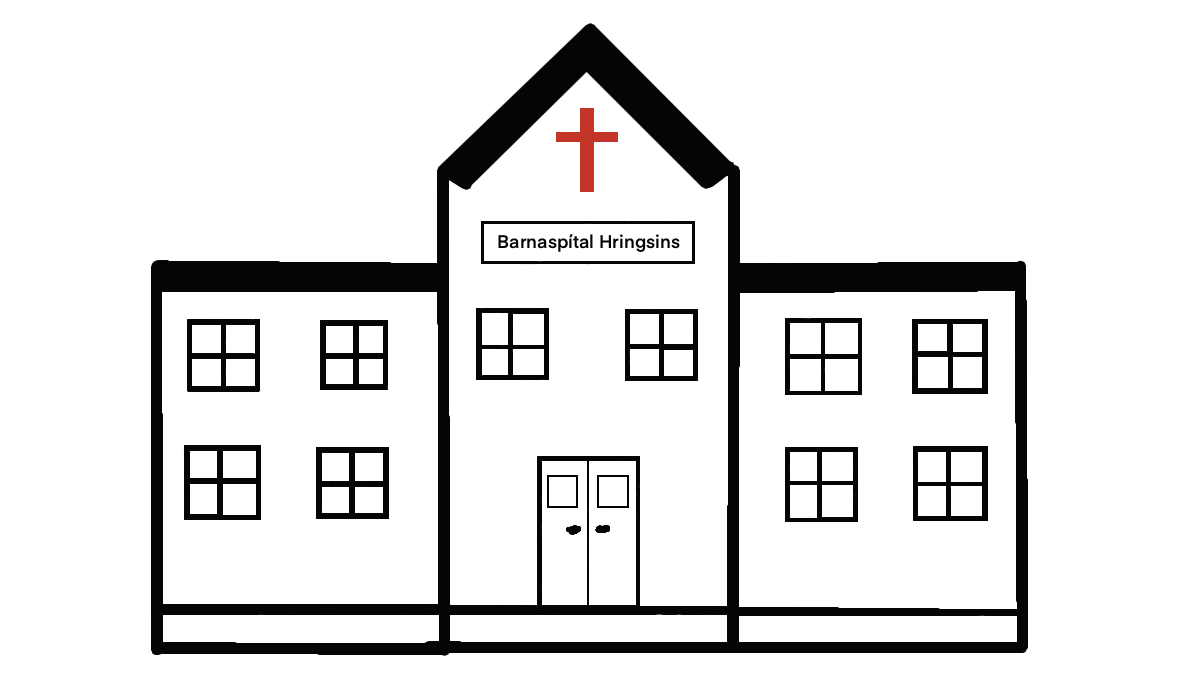
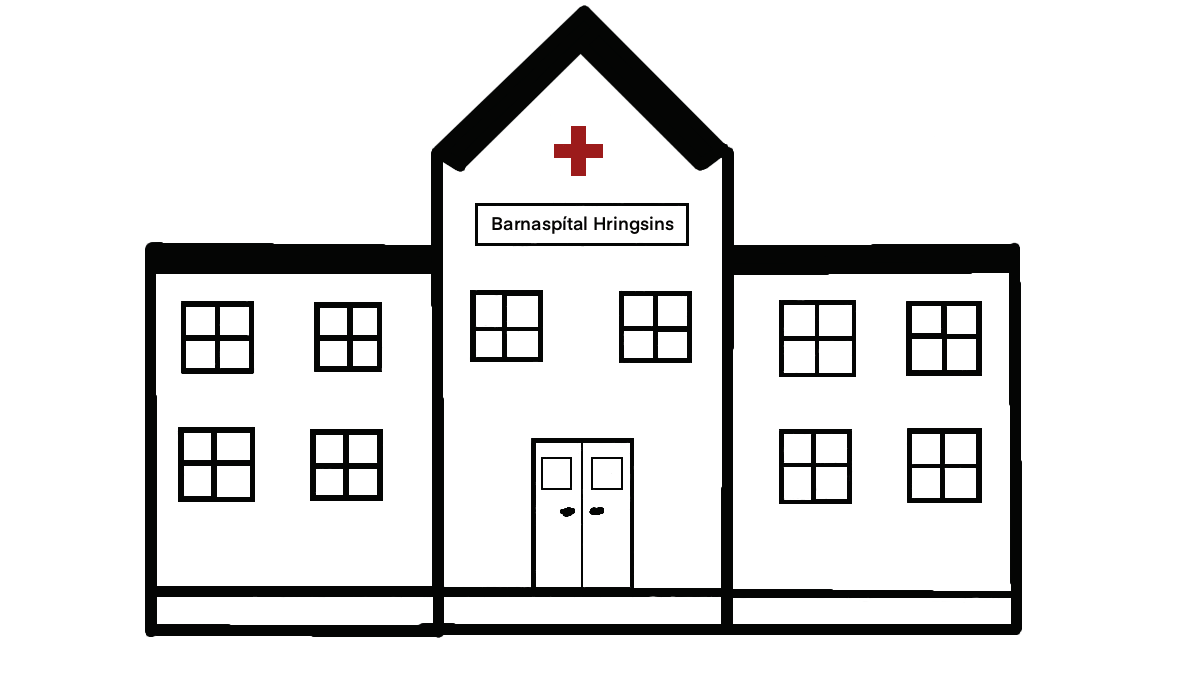
doneski

Changed region(s): [[0.1233, 0.0, 0.8633, 0.96]]

diff --git a/Leikur/index.js b/Leikur/index.js
@@ -1,9 +1,3 @@
-// Setja inn JB og baeta vid haus hreyfing
-// Uppfaera og setja inn myndir
-// baeta vid fleiri leikir
-// laga level 9-10
-
-
 var script = document.createElement('script');
 script.src = "https://code.jquery.com/jquery-3.7.1.js";
 document.getElementsByTagName("head")[0].appendChild(script);
@@ -75,6 +69,10 @@ bindu_sig_viljandiMynd.src = 'Img/folk/bindu_sig_viljandi.png'
 document.getElementById("pullLever").addEventListener('click', takki1);
 document.getElementById("noPullLever").addEventListener('click',takki2);
 document.getElementById("næstaBorð").addEventListener("click", switchToNextLevel);
+document.getElementById("takkar");
+document.getElementById("refresh");
+document.getElementById("byrja_uppa_nytt");
+
 
 class element{
     constructor (options){
@@ -120,25 +118,6 @@ const lest = new element({
     height: 175,
     image: lestMynd 
 })
-
-// const jbHaus = {
-//     x: 100,
-//     y: 400,
-//     width: 300,
-//     height: 200,
-//     runningFrames: [],
-//     frameIndex:0,
-//     frameDelay:6,
-//     frameCounter:0
-// };
-// function preLoadImages(){
-//     for(let i = 1; i<=5; i++){
-//         const img = new Image();
-//         img.src = `Img/JB/Johann${i}.png`;
-//         jbHaus.runningFrames.push(img);
-//     }
-// }
-// preLoadImages();
 
 const einManneskja = new element({
     x: 850,
@@ -257,7 +236,7 @@ const slaemur_borgari = new element({
     y: 80,
     width: 300,
     height: 175,
-    numPeople: 1,
+    numPeople: 2,
     image: slaemur_borgariMynd
 })
 const godur_borgari = new element({
@@ -308,7 +287,7 @@ const Level2 = new LevelBoard({
     boardLevel: 2,
     Val1: bekkurX,
     Val2: bekkurZY,
-    boardUpp:"Ó nei, lestin stefnir í átt að tveim bekkjum, X-bekk og ZY-bekk. Þú getur bjargað ZY-bekknum á kostnað X-bekksins. Hvað mun Jóhann gera?"
+    boardUpp:"Ó nei, lestin stefnir í átt að tveimur bekkjum, X-bekk og ZY-bekk. Þú getur bjargað ZY-bekknum á kostnað X-bekksins. Hvað mun Jóhann gera?"
 })
 const Level3 = new LevelBoard({
     boardLevel: 3,
@@ -338,7 +317,7 @@ const Level7 = new LevelBoard({
     boardLevel: 7,
     Val1: trir_unglingar,
     Val2: sjo_gamalt_folk,
-    boardUpp: 'Ó nei, lestin stefnir í átt að sjö gamalmennum sem struku af Hrafnistu. Væri best að refsa þeim, eða þrem unglingum sem hata alla heimspekikennara?'
+    boardUpp: 'Ó nei, lestin stefnir í átt að sjö gamalmennum sem struku af Hrafnistu. Væri best að refsa þeim, eða þremur unglingum sem hata alla heimspekikennara?'
 })
 const Level8 = new LevelBoard({
     boardLevel: 8,
@@ -393,9 +372,11 @@ function hreyfaLest(){
 setInterval(hreyfaLest, 1);
 
 function drawLevel(Level){
-    ctx.font = "24px Monospace";
-    ctx.fillText(`Level : ${Level}`, c.width/2-40, 50);
+    ctx.font = "bold 24px Monospace";
+    ctx.fillStyle = "grey"
+    ctx.fillText(`Borð : ${Level}`, c.width/2-40, 50);
 }
+
 function keyraYfir(Level){
     tempVal1 = Level.boardVal1;
     tempVal2 = Level.boardVal2;
@@ -457,10 +438,15 @@ function leikLokid(){
         ctx.clearRect(0,0,c.width,c.height)
         ctx.font = "60px Courier New";
         ctx.fillStyle = "#000000";
-        ctx.fillText("LEIK LOKIÐ", c.width / 2-100, c.height/2);
+        ctx.fillText("LEIK LOKIÐ", c.width / 2-190, c.height/2);
 
         ctx.font = "38px Courier New";
-        ctx.fillText(`Þú drapst ${score} einstaklinga!`, c.width/2-300,c.height/2+150);
+        ctx.fillText(`Þú hefur ollið ${score} dauðsföllum!`, c.width/2-300,c.height/2+150);
+
+        $("#takkar").hide();
+        $("#refresh").show();
+        $("#byrja_uppa_nytt").show();
+
     }
 }
 

diff --git a/Leikur/Leikur.html b/Leikur/Leikur.html
@@ -4,7 +4,7 @@
     <meta charset="UTF-8">
     <meta name="viewport" content="width=device-width, initial-scale=1.0">
     <title>Lestarvandamálið</title>
-    <link rel="stylesheet" href="index.css">
+    <link rel="stylesheet" href="./index.css">
     <script src="https://code.jquery.com/jquery-3.7.1.js" 
     integrity="sha256-eKhayi8LEQwp4NKxN+CfCh+3qOVUtJn3QNZ0TciWLP4=" 
     crossorigin="anonymous">
@@ -16,6 +16,10 @@
         <div id="canvasBox">
             <canvas id="leikbord" width="1200" height="700"></canvas>
             <img class="jbHaus" src="./Img/JB/Johann3.png">
+            <div id="container_refresh">
+                <label id="byrja_uppa_nytt">Byrja upp á nýtt</label>
+                <button id="refresh" onclick="window.location.reload();"><img src="./Img/annad/refresh1.png" width="50px" height="50px"></button>
+            </div>
         </div>
         
         <div id="atburdarTextiBox">
@@ -31,12 +35,15 @@
     </div>
     
 
-    <script src="index.js"></script>
+    <script src="./index.js"></script>
     <script>
+        $("#refresh").hide();
+        $("#byrja_uppa_nytt").hide();
         $("#næstaBorð").hide();
         $("#pullLever").click(function(){
             $("#pullLever").hide();
             $("#noPullLever").hide();
+            $("#næstaBorð").stop();
             $("#næstaBorð").show().css({"position": "relative","opacity": 0, "left": "+=100"});
             $("#næstaBorð").animate({left:0, opacity:1}, 4000);
 
@@ -44,6 +51,7 @@
         $("#noPullLever").click(function(){
             $("#pullLever").hide();
             $("#noPullLever").hide();
+            $("#næstaBorð").stop();
             $("#næstaBorð").show().css({"position": "relative","opacity": 0, "left": "+=100"});
             $("#næstaBorð").animate({left:0, opacity:1}, 4000);
             

diff --git a/Leikur/index.css b/Leikur/index.css
@@ -13,6 +13,10 @@ p {
     font-weight: bold;
     font-family: 'Courier New', Courier, monospace;
 }
+button:hover{
+    cursor: pointer;
+}
+
 #container{
     position: relative;
     width: 1400px;
@@ -50,6 +54,28 @@ p {
     height: 80%;
     /* border: 2px solid black; */
 }
+#canvasBox div #refresh{
+    position: absolute;
+    border-radius: 5px;
+    background: none;
+    top: 85%;
+    left: 55%;
+}
+#canvasBox div #byrja_uppa_nytt {
+    position: absolute;
+    top: 87%;
+    left: 38%;
+    font-size: 24px;
+    font-family: 'Courier New', Courier, monospace;
+    font-weight: bold;
+}
+
+#canvasBox #container_refresh img:hover {
+    filter: invert(100%);
+}
+#canvasBox #container_refresh button:hover {
+    background-color: black;
+}
 
 .jbHaus {
     position: absolute;
@@ -65,3 +91,4 @@ p {
     50% {transform: translateX(5px) rotate(15deg);}
     100% {transform: translateX(-5px) rotate(-15deg);}
 }
+
